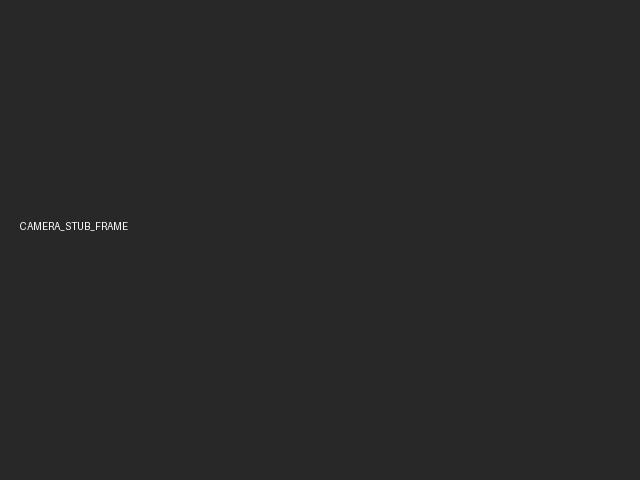
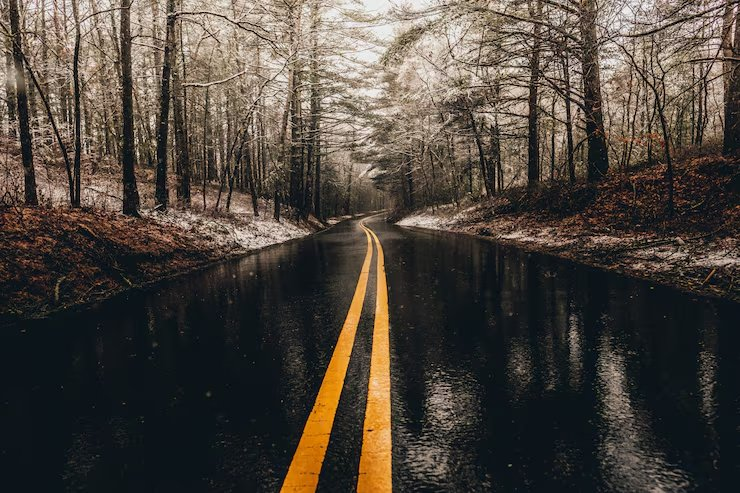
feat(vehicle): 차량 상태 JSON 영속화 + 카메라 프레임 업로드 API 추가
- vehicle_state.json 파일 기반 영속화로 전환 (인메모리 mock 제거)
- FastAPI·MCP subprocess 간 동일 파일 공유로 상태 동기화
- GET /vehicle/camera-frame: stub 프레임 이미지 반환 (프론트 미리보기)
- POST /vehicle/camera-frame: 이미지 업로드로 stub 프레임 교체
- _CAMERA_STUB_FRAME 경로 중복 제거 (vehicle.py 단일 소스)

diff --git a/app/services/vehicle.py b/app/services/vehicle.py
@@ -1,34 +1,77 @@
+"""
+app/services/vehicle.py
+
+차량 상태를 JSON 파일로 영속 관리한다.
+FastAPI 프로세스와 MCP subprocess(Agent 측에서 spawn) 가
+동일한 파일을 읽고 써서 상태를 공유한다.
+
+파일 위치: DrivingCopilotBackend/ 루트의 vehicle_state.json
+"""
+
+import json
+import os
+from pathlib import Path
+
 from app.models.vehicle import VehicleState, TirePressure
 
-# 1주차: Mock 데이터로 동작
-# 추후 실제 차량 센서 DB 연동으로 교체
-_mock_vehicle_state = VehicleState(
-    speed=60.0,
-    rpm=2000,
-    fuel=75.0,
-    battery=90.0,
-    tire_pressure=TirePressure(
-        front_left=33.0,
-        front_right=33.0,
-        rear_left=32.0,
-        rear_right=33.0
-    ),
-    ac_on=False,
-    ac_temperature=22.0,
-    wiper_on=False,
-    window_open=True,
-    driving_mode="normal",
-    warning_lights=[]
-)
+# 상태 파일: 이 파일(vehicle.py)이 있는 services/ 에서 두 단계 위가 Backend 루트
+_STATE_FILE = Path(__file__).parent.parent.parent / "vehicle_state.json"
+
+# 카메라 stub 프레임: FastAPI 프로세스(업로드 수신)와 MCP subprocess(get_camera_frame 읽기)가
+# 동일한 파일을 공유한다. 실 카메라 연동 전까지 이 파일을 갈아치우는 방식으로 Vision 입력을 대체한다.
+CAMERA_STUB_FRAME = Path(__file__).parent.parent.parent / "data" / "camera_stub" / "sample_frame.jpg"
+
+# 기본 초기값
+_DEFAULTS: dict = {
+    "speed": 60.0,
+    "rpm": 2000,
+    "fuel": 75.0,
+    "battery": 90.0,
+    "tire_pressure": {
+        "front_left": 33.0,
+        "front_right": 33.0,
+        "rear_left": 32.0,
+        "rear_right": 33.0,
+    },
+    "ac_on": False,
+    "ac_temperature": 22.0,
+    "wiper_on": False,
+    "window_open": True,
+    "driving_mode": "normal",
+    "warning_lights": [],
+}
+
+
+def _load() -> dict:
+    """JSON 파일에서 차량 상태를 읽는다. 파일이 없으면 기본값 반환."""
+    try:
+        return json.loads(_STATE_FILE.read_text(encoding="utf-8"))
+    except (FileNotFoundError, json.JSONDecodeError):
+        return dict(_DEFAULTS)
+
+
+def _save(data: dict) -> None:
+    """차량 상태를 JSON 파일에 저장한다."""
+    _STATE_FILE.write_text(json.dumps(data, ensure_ascii=False, indent=2), encoding="utf-8")
 
 
 def get_vehicle_state() -> VehicleState:
-    return _mock_vehicle_state
+    """현재 차량 상태를 반환한다."""
+    return VehicleState(**_load())
 
 
 def update_vehicle_state(field: str, value) -> VehicleState:
-    """Tool 실행 후 차량 상태 업데이트"""
-    global _mock_vehicle_state
-    updated = _mock_vehicle_state.model_copy(update={field: value})
-    _mock_vehicle_state = updated
-    return _mock_vehicle_state
+    """
+    특정 필드를 업데이트하고 저장한 뒤 새 상태를 반환한다.
+    MCP tool 과 FastAPI 엔드포인트 양쪽에서 호출된다.
+    """
+    data = _load()
+    data[field] = value
+    _save(data)
+    return VehicleState(**data)
+
+
+def save_camera_frame(data: bytes) -> None:
+    """업로드된 이미지로 카메라 stub 프레임을 교체한다. MCP의 get_camera_frame이 다음 호출부터 이 파일을 읽는다."""
+    CAMERA_STUB_FRAME.parent.mkdir(parents=True, exist_ok=True)
+    CAMERA_STUB_FRAME.write_bytes(data)

diff --git a/app/routers/vehicle.py b/app/routers/vehicle.py
@@ -1,4 +1,5 @@
-from fastapi import APIRouter
+from fastapi import APIRouter, File, UploadFile
+from fastapi.responses import FileResponse, JSONResponse
 from app.models.vehicle import VehicleState
 from app.services import vehicle as vehicle_service
 
@@ -10,3 +11,19 @@ router = APIRouter()
 def get_vehicle_state():
     """현재 차량 상태 반환"""
     return vehicle_service.get_vehicle_state()
+
+
+@router.get("/vehicle/camera-frame")
+def get_camera_frame():
+    """get_camera_frame MCP tool이 읽는 것과 동일한 카메라 stub 프레임 이미지를 반환한다 (프론트엔드 미리보기용)."""
+    if not vehicle_service.CAMERA_STUB_FRAME.exists():
+        return JSONResponse(status_code=404, content={"error": "camera frame not found"})
+    return FileResponse(vehicle_service.CAMERA_STUB_FRAME, media_type="image/jpeg")
+
+
+@router.post("/vehicle/camera-frame")
+async def upload_camera_frame(file: UploadFile = File(...)):
+    """업로드된 이미지로 카메라 stub 프레임을 교체한다. get_camera_frame MCP tool이 다음 호출부터 이 이미지를 읽는다."""
+    data = await file.read()
+    vehicle_service.save_camera_frame(data)
+    return {"status": "ok"}

diff --git a/mcp_server.py b/mcp_server.py
@@ -3,7 +3,6 @@ import sqlite3
 import json
 import os
 from contextlib import asynccontextmanager
-from pathlib import Path
 from typing import Annotated, Literal
 
 from mcp.server.fastmcp import FastMCP
@@ -13,11 +12,8 @@ from app.services import vehicle as vehicle_service
 from app.services import text2sql as text2sql_service
 from app.services import vector_rag as vector_rag_service
 from app.services import graph_rag as graph_rag_service
+from app.services.vehicle import CAMERA_STUB_FRAME as _CAMERA_STUB_FRAME
 from app.database import init_db, DB_PATH
-
-# 실제 카메라 하드웨어 연동 전 단계의 stub 프레임.
-# 추후 실 카메라 연동 시 이 파일 읽기 부분만 교체하면 된다.
-_CAMERA_STUB_FRAME = Path(__file__).parent / "data" / "camera_stub" / "sample_frame.jpg"
 
 
 @asynccontextmanager
